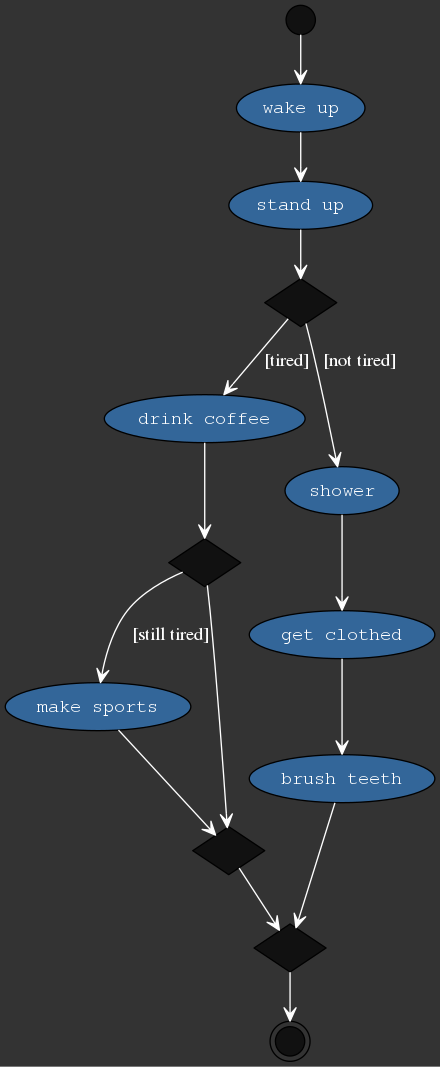
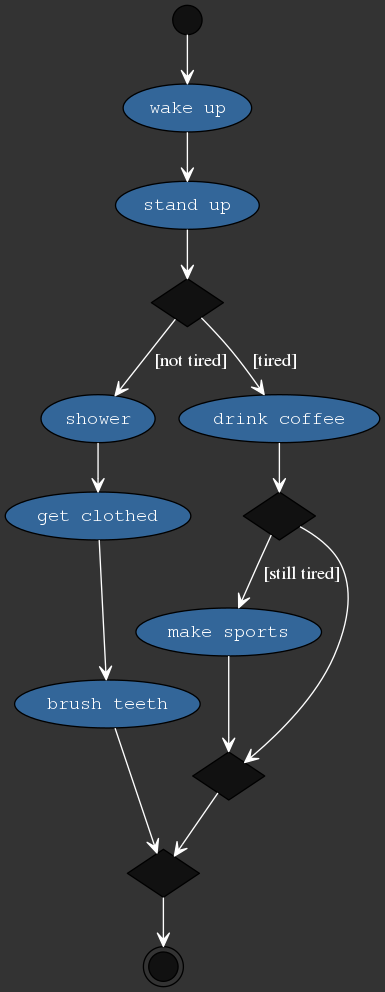
refactored code

diff --git a/aml/amlParser.go b/aml/amlParser.go
@@ -53,15 +53,13 @@ func (p *AMLFileParser) parseLine(aml *AMLFile, line string) {
 		return
 	}
 
-	p.handleParents(line, aml)
-
-	parent := p.getCurrentParent()
 	strippedLine := strings.Replace(line, ".", "", -1)
 	factory := p.getFactory(strippedLine)
 
-	new := (*factory).New(strippedLine, p.predecessor, parent)
-	p.handlePathBeginningNode(new)
+	new := (*factory).New(strippedLine)
 
+	p.handleParents(&new, line, aml)
+	p.handlePathBeginningNode(new)
 	p.addInstruction(aml, &new)
 }
 
@@ -72,6 +70,9 @@ func (p *AMLFileParser) addInstruction(aml *AMLFile, ins *instructions.AMLInstru
 		currentStack.Push(ins)
 	}
 
+	if p.predecessor != nil {
+		ins.Predecessors = append(ins.Predecessors, p.predecessor)
+	}
 	aml.Instructions = append(aml.Instructions, *ins)
 	p.predecessor = ins
 }
@@ -81,16 +82,19 @@ func (p *AMLFileParser) handlePathBeginningNode(ins instructions.AMLInstruction)
 		parent := p.getCurrentParent()
 
 		p.parentPathNodes[parent.Name] = append(p.parentPathNodes[parent.Name], *instructions.NewInstructionStack())
+		p.predecessor = parent
 	}
 }
 
-func (p *AMLFileParser) handleParents(line string, aml *AMLFile) {
+func (p *AMLFileParser) handleParents(ins *instructions.AMLInstruction, line string, aml *AMLFile) {
 	tabs := strings.Count(line, ".") / 2
 
 	//new parent
 	if p.parents.Len() < tabs {
-		p.parents.Push(p.predecessor)
-		p.parentPathNodes[(*p.predecessor).Name] = []instructions.InstructionStack{
+		forkNode := ins.GetPathForkNode()
+		p.addInstruction(aml, forkNode)
+		p.parents.Push(forkNode)
+		p.parentPathNodes[forkNode.Name] = []instructions.InstructionStack{
 			*instructions.NewInstructionStack(),
 		}
 	}
@@ -102,7 +106,9 @@ func (p *AMLFileParser) handleParents(line string, aml *AMLFile) {
 		for _, stack := range p.parentPathNodes[lastParent.Name] {
 			if stack.Len() > 0 {
 				lastPathElem := stack.Peek()
-				lastParent.GetPathJoinNode().Predecesors = append(lastParent.GetPathJoinNode().Predecesors, lastPathElem)
+				if lastPathElem != nil {
+					lastParent.GetPathJoinNode().Predecessors = append(lastParent.GetPathJoinNode().Predecessors, lastPathElem)
+				}
 			}
 		}
 

diff --git a/aml/instructions/conditionInstruction.go b/aml/instructions/conditionInstruction.go
@@ -2,17 +2,25 @@ package instructions
 
 import (
 	"math/rand"
+	"regexp"
 	"strconv"
 	"strings"
 )
 
 type IfInstructionFactory struct{}
 
-func (f IfInstructionFactory) New(name string, predecessor, parent *AMLInstruction) AMLInstruction {
+func (f IfInstructionFactory) New(name string) AMLInstruction {
 	randName := strconv.FormatInt(int64(rand.Int()), 10)
+
 	ins := AMLInstruction{
-		Name:        "cond_" + randName,
-		Predecesors: []*AMLInstruction{predecessor},
+		Name: getNodeName(name),
+		EdgeOptions: map[string]string{
+			"label": getLabelName(name),
+		},
+	}
+
+	forkNode := &AMLInstruction{
+		Name: "cond_" + randName,
 		NodeOptions: map[string]string{
 			"shape":     "diamond",
 			"label":     "",
@@ -21,20 +29,31 @@ func (f IfInstructionFactory) New(name string, predecessor, parent *AMLInstructi
 		EdgeOptions: make(map[string]string),
 	}
 
-	pathJoinNodePredecessors := getJoinNodePredecessors(name, &ins)
-
-	ins.PathJoinNode = &AMLInstruction{
+	joinNode := &AMLInstruction{
 		Name: "join_" + randName,
 		NodeOptions: map[string]string{
 			"shape":     "diamond",
 			"label":     "",
 			"fillcolor": "#111111",
 		},
-		EdgeOptions: make(map[string]string),
-		Predecesors: pathJoinNodePredecessors,
+		EdgeOptions:  make(map[string]string),
+		Predecessors: getJoinNodePredecessors(name, forkNode),
 	}
 
+	forkNode.PathJoinNode = joinNode
+	ins.PathForkNode = forkNode
+
 	return ins
+}
+
+func getLabelName(name string) string {
+	r := regexp.MustCompile("\\?{1,2}\\[(.+)\\].+")
+	return " [" + r.FindStringSubmatch(name)[1] + "]"
+}
+
+func getNodeName(name string) string {
+	r := regexp.MustCompile("\\?{1,2}\\[.+\\](.+)")
+	return r.FindStringSubmatch(name)[1]
 }
 
 func getJoinNodePredecessors(name string, ins *AMLInstruction) []*AMLInstruction {
@@ -45,5 +64,5 @@ func getJoinNodePredecessors(name string, ins *AMLInstruction) []*AMLInstruction
 }
 
 func (f IfInstructionFactory) GetPattern() string {
-	return "\\?"
+	return "\\?{1,2}\\[.+\\]"
 }

diff --git a/aml/instructions/instruction.go b/aml/instructions/instruction.go
@@ -3,16 +3,16 @@ package instructions
 import "github.com/windler/dotgraph/graph"
 
 type AMLInstruction struct {
-	Name          string
-	Predecesors   []*AMLInstruction
-	NodeOptions   map[string]string
-	EdgeOptions   map[string]string
-	PathBeginning bool
-	PathJoinNode  *AMLInstruction
+	Name         string
+	Predecessors []*AMLInstruction
+	NodeOptions  map[string]string
+	EdgeOptions  map[string]string
+	PathForkNode *AMLInstruction
+	PathJoinNode *AMLInstruction
 }
 
 func (i *AMLInstruction) GetPredecessors() []*AMLInstruction {
-	return i.Predecesors
+	return i.Predecessors
 }
 
 func (i *AMLInstruction) GetNodeOptions() graph.DotGraphOptions {
@@ -28,9 +28,13 @@ func (i *AMLInstruction) GetNodeName() string {
 }
 
 func (i *AMLInstruction) IsPathBeginning() bool {
-	return i.PathBeginning
+	return i.PathForkNode != nil
 }
 
 func (i *AMLInstruction) GetPathJoinNode() *AMLInstruction {
 	return i.PathJoinNode
+}
+
+func (i *AMLInstruction) GetPathForkNode() *AMLInstruction {
+	return i.PathForkNode
 }

diff --git a/aml/instructions/startInstruction.go b/aml/instructions/startInstruction.go
@@ -6,10 +6,10 @@ import (
 
 type StartInstructionFactory struct{}
 
-func (f StartInstructionFactory) New(name string, predecessor, parent *AMLInstruction) AMLInstruction {
+func (f StartInstructionFactory) New(name string) AMLInstruction {
 	return AMLInstruction{
-		Name:        strings.Replace(name, "?", "cond_", -1),
-		Predecesors: []*AMLInstruction{},
+		Name:         strings.Replace(name, "?", "cond_", -1),
+		Predecessors: []*AMLInstruction{},
 		NodeOptions: map[string]string{
 			"shape":     "circle",
 			"label":     "",

diff --git a/aml/instructions/endInstruction.go b/aml/instructions/endInstruction.go
@@ -2,10 +2,9 @@ package instructions
 
 type EndInstructionFactory struct{}
 
-func (f EndInstructionFactory) New(name string, predecessor, parent *AMLInstruction) AMLInstruction {
+func (f EndInstructionFactory) New(name string) AMLInstruction {
 	return AMLInstruction{
-		Name:        name,
-		Predecesors: []*AMLInstruction{predecessor},
+		Name: name,
 		NodeOptions: map[string]string{
 			"shape":     "doublecircle",
 			"label":     "",

diff --git a/aml/instructions/activityInstruction.go b/aml/instructions/activityInstruction.go
@@ -2,10 +2,9 @@ package instructions
 
 type ActivityInstructionFactory struct{}
 
-func (f ActivityInstructionFactory) New(name string, predecessor, parent *AMLInstruction) AMLInstruction {
+func (f ActivityInstructionFactory) New(name string) AMLInstruction {
 	return AMLInstruction{
 		Name:        name,
-		Predecesors: []*AMLInstruction{predecessor},
 		NodeOptions: make(map[string]string),
 		EdgeOptions: make(map[string]string),
 	}

diff --git a/awesm.go b/awesm.go
@@ -13,7 +13,6 @@ func main() {
 	amlParser := aml.NewFileParser("examples/simple_test.aml")
 	amlParser.AddFactory(instructions.StartInstructionFactory{})
 	amlParser.AddFactory(instructions.EndInstructionFactory{})
-	amlParser.AddFactory(instructions.IfPathInstructionFactory{})
 	amlParser.AddFactory(instructions.IfInstructionFactory{})
 	amlParser.AddFactory(instructions.ActivityInstructionFactory{})
 

diff --git a/aml/aml.go b/aml/aml.go
@@ -10,6 +10,6 @@ type AMLParser interface {
 }
 
 type AMLInstructionFactory interface {
-	New(name string, predecessor *instructions.AMLInstruction, parent *instructions.AMLInstruction) instructions.AMLInstruction
+	New(name string) instructions.AMLInstruction
 	GetPattern() string
 }
